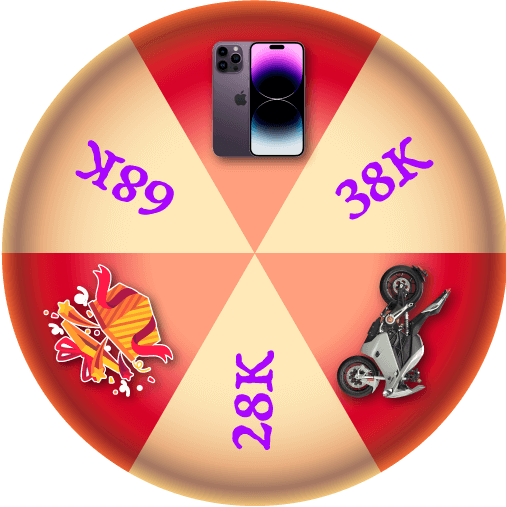
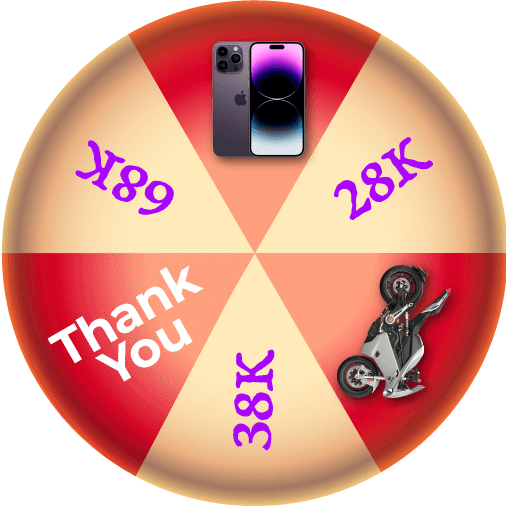
Update lucky spin prize

diff --git a/packages/app/components/modal/LuckyDrawModal.tsx b/packages/app/components/modal/LuckyDrawModal.tsx
@@ -55,7 +55,7 @@ const LuckyDrawModal = ({ modal: { getParam } }) => {
 
       setTimeout(() => {
         showAlert({
-          message: data.note,
+          message: data.code === 4 ? 'Thank you' : data.note,
           onClose: handleClose,
           persistent: true,
         })
@@ -76,8 +76,10 @@ const LuckyDrawModal = ({ modal: { getParam } }) => {
         return 1
       case 3:
         return 5
+      case 4:
+        return 4
       default:
-        return 3
+        return 4
     }
   }
 
